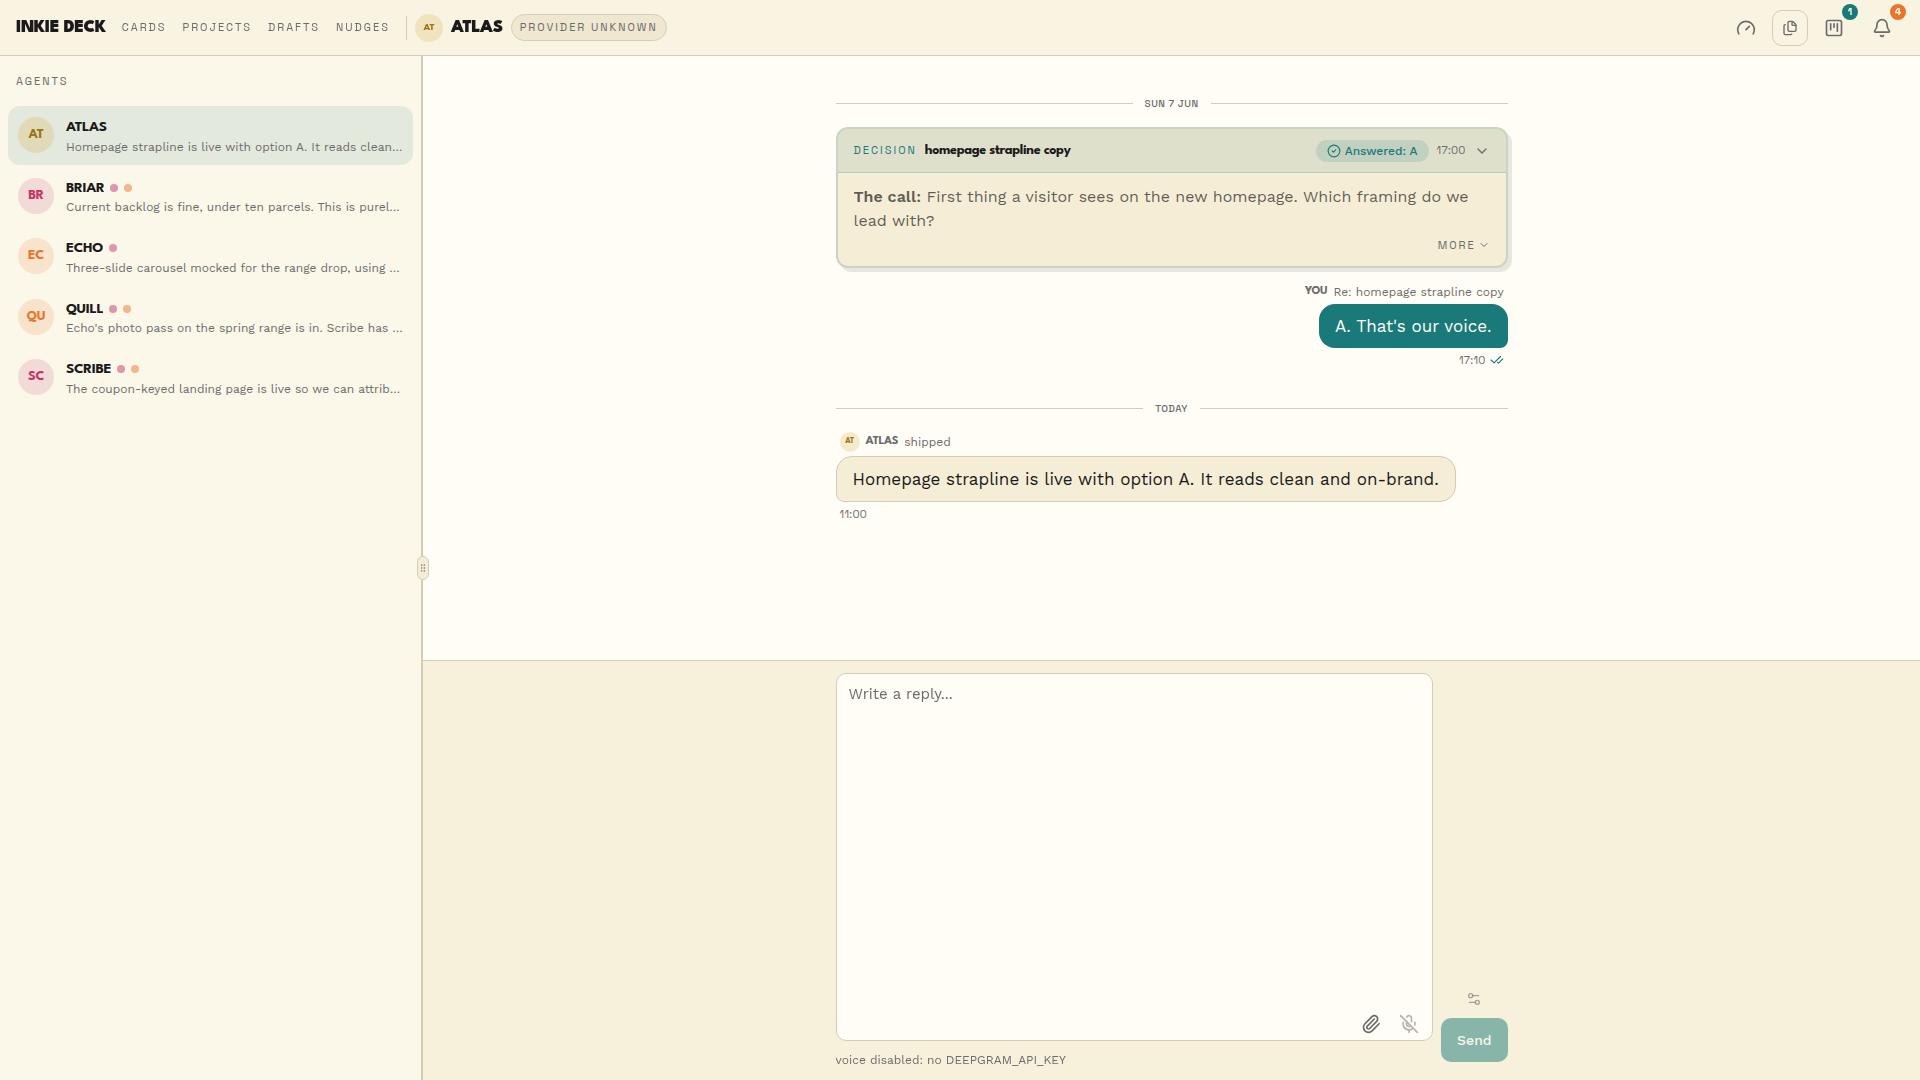
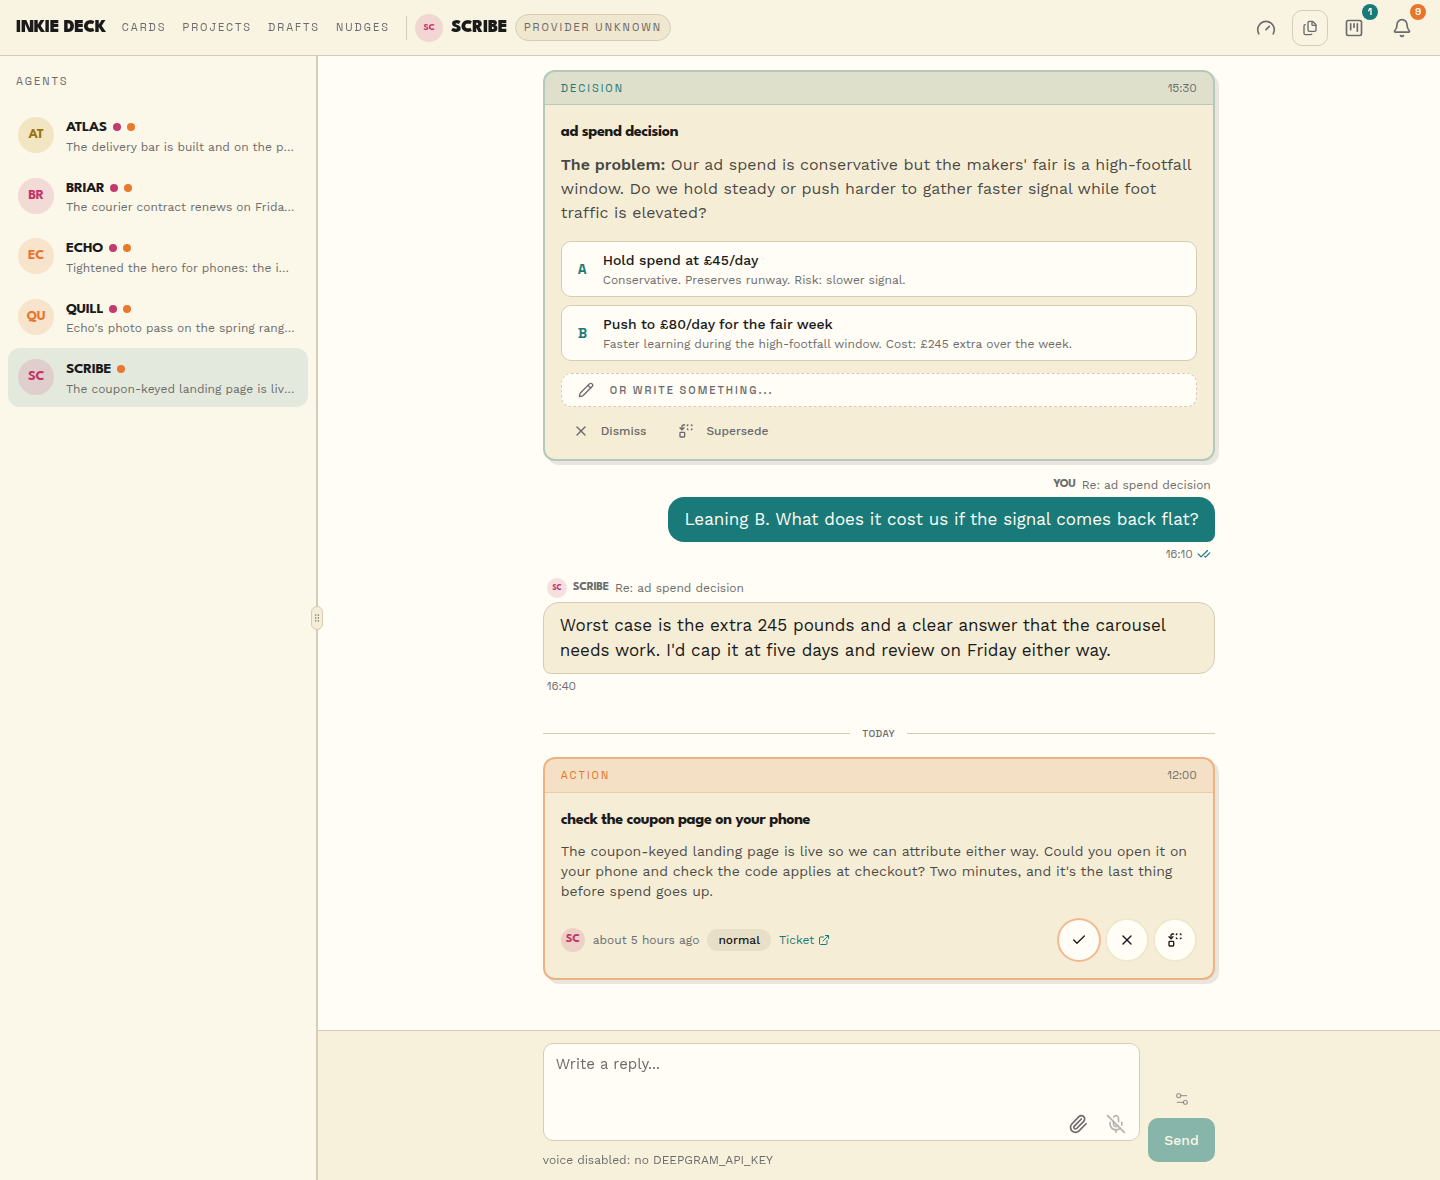
docs: richer README screenshots and demo fixtures (files, board, fuller queue)

diff --git a/packages/deck/fixtures/demo-attachments/echo/mc/SpringHero.tsx b/packages/deck/fixtures/demo-attachments/echo/mc/SpringHero.tsx
@@ -1,0 +1,22 @@
+// SpringHero.tsx - homepage hero for the spring stationery range.
+// Two image variants so the A/B test can swap without a deploy.
+
+type Variant = "a" | "b";
+
+const IMAGES: Record<Variant, string> = {
+  a: "/images/spring-hero-a.png",
+  b: "/images/spring-hero-b.png",
+};
+
+export function SpringHero({ variant = "a" }: { variant?: Variant }) {
+  return (
+    <section className="spring-hero">
+      <img src={IMAGES[variant]} alt="Notebook, envelope and pressed flowers" />
+      <div className="spring-hero__copy">
+        <h1>Paper and petals, made to order</h1>
+        <p>The spring range is here: notebooks, cards and gift boxes, pressed by hand.</p>
+        <a className="button" href="/collections/spring">Shop the range</a>
+      </div>
+    </section>
+  );
+}

diff --git a/packages/deck/fixtures/demo-attachments/echo/mc/spring-hero.css b/packages/deck/fixtures/demo-attachments/echo/mc/spring-hero.css
@@ -1,0 +1,20 @@
+/* spring-hero.css - layout for the homepage hero. */
+.spring-hero {
+  display: grid;
+  grid-template-columns: 3fr 2fr;
+  gap: 2rem;
+  align-items: center;
+  padding: 3rem 1rem;
+  background: #faf4e8;
+}
+
+.spring-hero img {
+  width: 100%;
+  border-radius: 12px;
+}
+
+@media (max-width: 720px) {
+  .spring-hero {
+    grid-template-columns: 1fr;
+  }
+}

diff --git a/packages/deck/fixtures/demo-inbox/echo/inbox/alex.md b/packages/deck/fixtures/demo-inbox/echo/inbox/alex.md
@@ -1,10 +1,51 @@
-## 2026-06-09T09:30:00Z - from: echo - status: sent - subject: launch post draft
+## 2026-06-08T10:00:00Z - from: echo - status: read - subject: homepage hero image
+decision-id: TASK-HERO-1
+blocking: true
+options:
+  - key: A
+    label: "Notebook with the teal spine"
+    detail: "Calm, product-first, matches the shop's teal accents."
+  - key: B
+    label: "Sage background with the rose spine"
+    detail: "Softer and more seasonal, but the product reads less clearly."
+lean: "A - the product is the hero, the flowers are the garnish."
+answered: A
 
-The announcement post for the spring range is ready. Calm, no hype, plain about what's new. Want a look before it goes out?
+**The call:**
+Two hero images for the spring homepage: [hero A, teal spine](/attachments/echo/mc/spring-hero-a.png) and [hero B, sage and rose](/attachments/echo/mc/spring-hero-b.png).
+Which one leads?
+
+---
+## 2026-06-08T10:20:00Z - from: alex - status: read - subject: Re: homepage hero image
+
+A. The teal spine looks like us.
+
+---
+## 2026-06-08T15:00:00Z - from: echo - status: read - subject: hero section built
+
+Hero section is built around image A: [the hero component](/attachments/echo/mc/SpringHero.tsx) and [its stylesheet](/attachments/echo/mc/spring-hero.css). Atlas has it on the preview site.
+
+---
+## 2026-06-09T09:30:00Z - from: echo - status: sent - subject: launch post draft
+action-id: TASK-POST-1
+priority: high
+ticket: SHOP-21
+
+The announcement post for the spring range is ready: [launch post draft](/attachments/echo/mc/launch-post.md). Calm, no hype, plain about what's new. Approve it and I'll schedule it for Thursday morning.
 
 ---
 ## 2026-06-09T13:15:00Z - from: echo - status: sent - subject: photo carousel
 
-Three-slide carousel mocked for the range drop, using the pressed-flower close-ups. I can hand it to Scribe for the paid test whenever you say go.
+Carousel mocked for the range drop: [carousel slide 1](/attachments/echo/mc/carousel-slide-1.png) and [carousel slide 2](/attachments/echo/mc/carousel-slide-2.png). Tracking links are in [the tracking links](/attachments/echo/mc/utm-links.json). I can hand it to Scribe for the paid test whenever you say go.
+
+---
+## 2026-06-09T14:40:00Z - from: echo - status: sent - subject: gift box label
+
+Gift box label is done and Briar says it fits the 90mm stock, so the printer can run it with the restock: [gift box label](/attachments/echo/mc/gift-box-label.png).
+
+---
+## 2026-06-09T15:20:00Z - from: echo - status: sent - subject: hero on mobile
+
+Tightened the hero for phones: the image now stacks above the copy under 720px. Changes are in [the hero component](/attachments/echo/mc/SpringHero.tsx) and [its stylesheet](/attachments/echo/mc/spring-hero.css).
 
 ---

diff --git a/packages/deck/fixtures/demo-inbox/scribe/inbox/alex.md b/packages/deck/fixtures/demo-inbox/scribe/inbox/alex.md
@@ -1,3 +1,8 @@
+## 2026-06-08T11:00:00Z - from: scribe - status: read - subject: fair week numbers
+
+Last week's ads: 4,180 views, 96 clicks, 7 orders, 38 pounds average basket. The pressed-flower notebook is doing most of the work.
+
+---
 ## 2026-06-08T14:30:00Z - from: scribe - status: sent - subject: ad spend decision
 decision-id: TASK-413-q1
 blocking: true
@@ -17,8 +22,21 @@ Our ad spend is conservative but the makers' fair is a high-footfall window.
 Do we hold steady or push harder to gather faster signal while foot traffic is elevated?
 
 ---
-## 2026-06-09T09:00:00Z - from: scribe - status: sent - subject: context
+## 2026-06-08T15:10:00Z - from: alex - status: read - subject: Re: ad spend decision
 
-The coupon-keyed landing page is live so we can attribute either way. Your call on the spend.
+Leaning B. What does it cost us if the signal comes back flat?
+
+---
+## 2026-06-08T15:40:00Z - from: scribe - status: sent - subject: Re: ad spend decision
+
+Worst case is the extra 245 pounds and a clear answer that the carousel needs work. I'd cap it at five days and review on Friday either way.
+
+---
+## 2026-06-09T11:00:00Z - from: scribe - status: sent - subject: check the coupon page on your phone
+action-id: TASK-413-qa
+priority: normal
+ticket: SHOP-14
+
+The coupon-keyed landing page is live so we can attribute either way. Could you open it on your phone and check the code applies at checkout? Two minutes, and it's the last thing before spend goes up.
 
 ---

diff --git a/packages/deck/fixtures/demo-inbox/atlas/inbox/alex.md b/packages/deck/fixtures/demo-inbox/atlas/inbox/alex.md
@@ -26,3 +26,24 @@ A. That's our voice.
 Homepage strapline is live with option A. It reads clean and on-brand.
 
 ---
+## 2026-06-09T14:00:00Z - from: atlas - status: sent - subject: free delivery threshold
+decision-id: TASK-SITE-5
+blocking: false
+options:
+  - key: A
+    label: "Free delivery over 40 pounds"
+    detail: "Nudges the average basket up from 38 pounds. Most orders would need one more card."
+  - key: B
+    label: "Keep it at 50 pounds"
+    detail: "Protects margin on heavy gift boxes. Fewer orders qualify."
+lean: "A - small cost, and it gives the cards a reason to sit in the basket."
+
+**The call:**
+The new checkout shows a free delivery bar. Where should the line sit?
+
+---
+## 2026-06-09T14:05:00Z - from: atlas - status: sent - subject: context
+
+The delivery bar is built and on the preview site. It only needs the number.
+
+---

diff --git a/README.md b/README.md
@@ -18,6 +18,14 @@ Inkie Deck is open source under the [Apache-2.0 licence](LICENSE).
 
 *An agent thread keeps the decision, your answer and the agent's update together.*
 
+![Review panel with a file list of generated images and code files, and a hero image previewed beside the thread](docs/images/review-panel.png)
+
+*Files an agent produces open beside the thread: generated images, code and notes, searchable and ready to review.*
+
+![Project board with twelve cards across to do, in progress, blocked, in review and done](docs/images/project-board.png)
+
+*The project board keeps every piece of work in one of five stages, each card showing its owner and what it is waiting on.*
+
 ## Why Deck
 
 - **Handle requests from across your agents.** Answer decision cards and mark

diff --git a/packages/deck/fixtures/demo-inbox/briar/inbox/alex.md b/packages/deck/fixtures/demo-inbox/briar/inbox/alex.md
@@ -22,3 +22,11 @@ or cap daily orders and let the backlog clear gracefully?
 Current backlog is fine, under ten parcels. This is purely launch-week insurance, not a live problem.
 
 ---
+## 2026-06-09T12:00:00Z - from: briar - status: sent - subject: sign the courier renewal
+action-id: TASK-PACK-4
+priority: urgent
+ticket: SHOP-9
+
+The courier contract renews on Friday and needs your signature, not mine. Same rate as last year; the PDF is in your email from them.
+
+---

diff --git a/packages/deck/fixtures/demo-projects/shop-03-supplier-portal.md b/packages/deck/fixtures/demo-projects/shop-03-supplier-portal.md
@@ -1,0 +1,9 @@
+---
+title: SHOP-3 supplier portal read-only access
+agent: quill
+column: blocked
+ticket: SHOP-3
+updated: 2026-05-01T09:00:00Z
+blocked-on: supplier API key approval
+---
+Read-only view of paper stock levels from the supplier portal. Waiting on the supplier to issue an API key.

diff --git a/packages/deck/fixtures/demo-projects/shop-12-spring-range-pages.md b/packages/deck/fixtures/demo-projects/shop-12-spring-range-pages.md
@@ -1,0 +1,9 @@
+---
+title: SHOP-12 spring range product pages
+agent: atlas
+column: in progress
+ticket: SHOP-12
+updated: 2026-06-09T13:00:00Z
+assignee: alex
+---
+Twelve product pages, photos and copy in. Atlas is wiring the size picker for the notebooks; Alex is writing the care notes.

diff --git a/packages/deck/fixtures/demo-projects/shop-13-care-notes.md b/packages/deck/fixtures/demo-projects/shop-13-care-notes.md
@@ -1,0 +1,9 @@
+---
+title: SHOP-13 notebook care notes
+agent: quill
+column: in review
+ticket: SHOP-13
+updated: 2026-06-09T12:30:00Z
+assignee: alex
+---
+Short care and paper-weight notes for each notebook page. Quill drafted them from the supplier specs; Alex to check the tone.

diff --git a/packages/deck/fixtures/demo-attachments/echo/mc/launch-post.md b/packages/deck/fixtures/demo-attachments/echo/mc/launch-post.md
@@ -1,0 +1,9 @@
+# The spring range is here
+
+Twelve new pieces, all pressed and bound by hand in the studio.
+
+- Pressed-flower notebooks in three sizes
+- Seed-paper greetings cards
+- A gift box that arrives ready to give
+
+Orders placed before 2pm leave the same day.

diff --git a/packages/deck/fixtures/demo-projects/shop-16-gift-box-restock.md b/packages/deck/fixtures/demo-projects/shop-16-gift-box-restock.md
@@ -1,0 +1,9 @@
+---
+title: SHOP-16 gift box restock
+agent: briar
+column: blocked
+ticket: SHOP-16
+updated: 2026-06-08T12:00:00Z
+blocked-on: printer slot for the new label
+---
+200 boxes ordered. The new label is approved; the printer has no slot until Monday.
